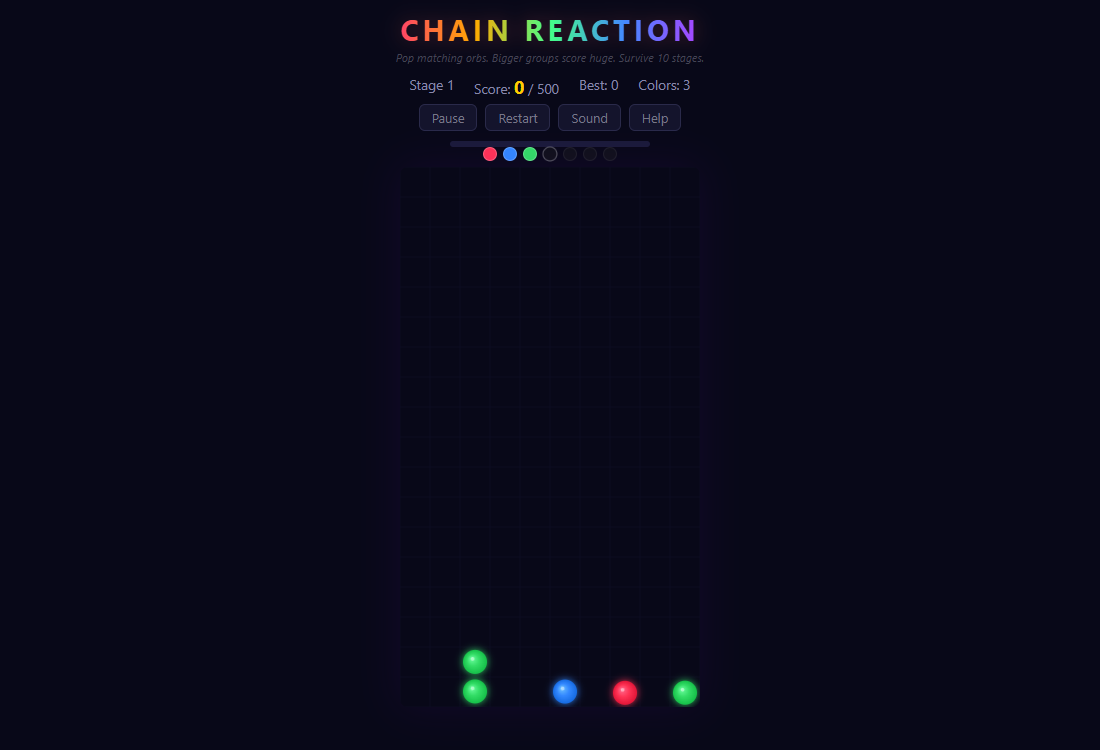
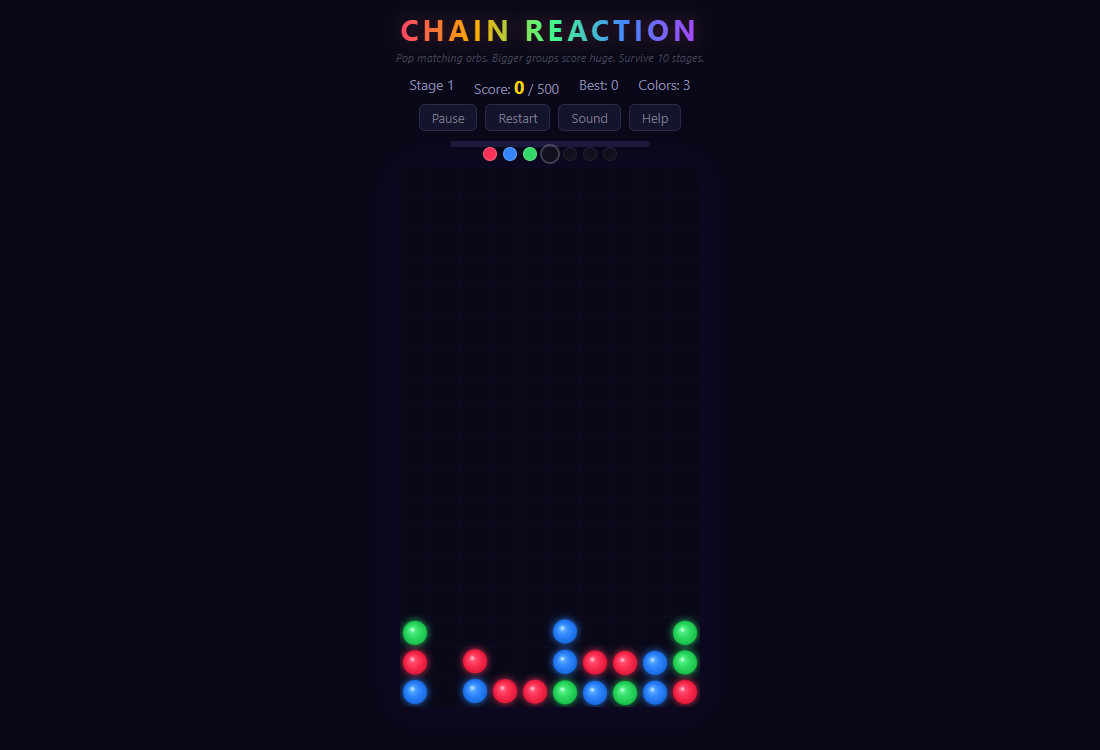
Launcher: gameplay thumbnails, taglines, GitHub footer

Changed region(s): [[0.34, 0.7973, 0.6491, 0.9507], [0.4945, 0.184, 0.5255, 0.2147]]

diff --git a/index.html b/index.html
@@ -13,7 +13,7 @@
       color: #e0e0ff;
       font-family: 'Share Tech Mono', monospace;
       min-height: 100vh;
-      padding: 32px 16px 64px;
+      padding: 32px 16px 48px;
       background-image:
         repeating-linear-gradient(
           0deg,
@@ -48,6 +48,16 @@
       text-shadow: 0 0 8px #c060ff;
       letter-spacing: 3px;
       text-transform: uppercase;
+      animation: blink 1.6s step-end infinite;
+    }
+
+    @keyframes blink {
+      0%, 100% { opacity: 1; }
+      50% { opacity: 0.25; }
+    }
+
+    @media (prefers-reduced-motion: reduce) {
+      header p { animation: none; }
     }
 
     .divider {
@@ -57,19 +67,30 @@
       margin: 20px auto 0;
     }
 
+    .featured-grid {
+      display: grid;
+      grid-template-columns: repeat(2, 1fr);
+      gap: 20px;
+      max-width: 860px;
+      margin: 0 auto;
+    }
+
+    @media (max-width: 640px) {
+      .featured-grid { grid-template-columns: 1fr; }
+    }
+
     .card {
-      background: #0e0e20;
-      border: 1px solid #3a2060;
-      border-radius: 4px;
-      padding: 18px 14px;
+      background: #12102a;
+      border: 1px solid #c060ff;
+      border-radius: 6px;
       text-decoration: none;
       color: inherit;
       display: flex;
       flex-direction: column;
-      gap: 10px;
       transition: all 0.15s;
       position: relative;
       overflow: hidden;
+      box-shadow: 0 0 12px rgba(192, 96, 255, 0.2), inset 0 0 30px rgba(192, 96, 255, 0.05);
     }
 
     .card::before {
@@ -78,70 +99,105 @@
       top: 0; left: 0; right: 0;
       height: 2px;
       background: linear-gradient(to right, #c060ff, #60c0ff);
-      opacity: 0;
-      transition: opacity 0.15s;
+      z-index: 1;
     }
 
     .card:hover {
-      background: #15152a;
-      border-color: #c060ff;
-      box-shadow: 0 0 16px rgba(192, 96, 255, 0.3), inset 0 0 20px rgba(192, 96, 255, 0.05);
-      transform: translateY(-2px);
+      border-color: #e0a0ff;
+      box-shadow: 0 0 24px rgba(192, 96, 255, 0.45), inset 0 0 30px rgba(192, 96, 255, 0.08);
+      transform: translateY(-3px);
     }
 
-    .card:hover::before {
-      opacity: 1;
+    .shot {
+      display: block;
+      width: 100%;
+      aspect-ratio: 16 / 10;
+      object-fit: cover;
+      object-position: center top;
+      border-bottom: 1px solid #3a2060;
+      background: #0a0a16;
+      filter: saturate(1.05);
+    }
+
+    .shot-bottom { object-position: center bottom; }
+
+    .card-body {
+      display: flex;
+      flex-direction: column;
+      gap: 8px;
+      padding: 16px 16px 14px;
+      flex: 1;
+    }
+
+    .card-top {
+      display: flex;
+      align-items: baseline;
+      justify-content: space-between;
+      gap: 10px;
     }
 
     .card-name {
-      font-family: 'Share Tech Mono', monospace;
-      font-size: 0.85rem;
-      color: #e0d0ff;
+      font-family: 'Press Start 2P', monospace;
+      font-size: 0.78rem;
+      color: #fff;
+      text-shadow: 0 0 10px #c060ff;
       line-height: 1.4;
-      text-shadow: 0 0 8px rgba(192, 96, 255, 0.4);
     }
 
-    .card:hover .card-name {
-      color: #fff;
-      text-shadow: 0 0 10px #c060ff;
+    .card-tag {
+      font-size: 0.78rem;
+      color: #9a8fc0;
+      line-height: 1.45;
+      flex: 1;
     }
 
-    .featured-grid {
-      display: grid;
-      grid-template-columns: repeat(auto-fill, minmax(150px, 1fr));
-      gap: 12px;
-      max-width: 760px;
-      margin: 0 auto 32px;
+    .card-foot {
+      display: flex;
+      align-items: center;
+      justify-content: space-between;
+      gap: 10px;
+      margin-top: 4px;
     }
 
-    .card.featured {
-      border-color: #c060ff;
-      background: #12102a;
-      box-shadow: 0 0 12px rgba(192, 96, 255, 0.2), inset 0 0 30px rgba(192, 96, 255, 0.05);
+    .play {
+      font-family: 'Press Start 2P', monospace;
+      font-size: 0.55rem;
+      color: #0a0a16;
+      background: #c060ff;
+      padding: 8px 12px;
+      border-radius: 3px;
+      letter-spacing: 1px;
+      box-shadow: 0 0 14px rgba(192, 96, 255, 0.5);
     }
 
-    .card.featured::before {
-      opacity: 1;
-    }
-
-    .card.featured .card-name {
-      color: #fff;
-      text-shadow: 0 0 10px #c060ff;
-    }
-
-    .card.featured:hover {
-      box-shadow: 0 0 24px rgba(192, 96, 255, 0.4), inset 0 0 30px rgba(192, 96, 255, 0.08);
+    .card:hover .play {
+      background: #e0a0ff;
+      box-shadow: 0 0 20px rgba(224, 160, 255, 0.7);
     }
 
     .card-date {
-      font-size: 0.6rem;
+      font-size: 0.65rem;
       color: #5a5080;
       letter-spacing: 0.5px;
-      margin-top: auto;
     }
 
-    @media (max-width: 380px) {
-      .featured-grid { grid-template-columns: 1fr 1fr; }
+    footer {
+      text-align: center;
+      margin-top: 44px;
+      font-size: 0.75rem;
+      color: #8060aa;
+      letter-spacing: 1px;
+    }
+
+    footer a {
+      color: #c060ff;
+      text-decoration: none;
+      border-bottom: 1px solid #4a2a66;
+    }
+
+    footer a:hover {
+      color: #e0a0ff;
+      text-shadow: 0 0 8px #c060ff;
     }
   </style>
 </head>
@@ -155,23 +211,64 @@
 
   <div class="featured-grid">
 
-    <a class="card featured" href="glowflow.html">
-      <div class="card-name">Glowflow</div>
+    <a class="card" href="glowflow.html">
+      <img class="shot" src="screenshots/glowflow.png" alt="Glowflow gameplay" loading="lazy">
+      <div class="card-body">
+        <div class="card-top">
+          <div class="card-name">Glowflow</div>
+        </div>
+        <div class="card-tag">Connect the dots. Every move plays music.</div>
+        <div class="card-foot">
+          <span class="play">PLAY &gt;</span>
+        </div>
+      </div>
     </a>
 
-    <a class="card featured" href="orbital-impact.html">
-      <div class="card-name">Orbital Impact</div>
+    <a class="card" href="orbital-impact.html">
+      <img class="shot" src="screenshots/orbital-impact.png" alt="Orbital Impact gameplay" loading="lazy">
+      <div class="card-body">
+        <div class="card-top">
+          <div class="card-name">Orbital Impact</div>
+        </div>
+        <div class="card-tag">Brick-breaker in orbit. Shatter every ring.</div>
+        <div class="card-foot">
+          <span class="play">PLAY &gt;</span>
+        </div>
+      </div>
     </a>
 
-    <a class="card featured" href="word-drops.html">
-      <div class="card-name">Word Drops</div>
+    <a class="card" href="word-drops.html">
+      <img class="shot shot-bottom" src="screenshots/word-drops.png" alt="Word Drops gameplay" loading="lazy">
+      <div class="card-body">
+        <div class="card-top">
+          <div class="card-name">Word Drops</div>
+        </div>
+        <div class="card-tag">Tetris, but you spell. Chains multiply.</div>
+        <div class="card-foot">
+          <span class="play">PLAY &gt;</span>
+        </div>
+      </div>
     </a>
 
-    <a class="card featured" href="chain-reaction.html">
-      <div class="card-name">Chain Reaction</div>
+    <a class="card" href="chain-reaction.html">
+      <img class="shot shot-bottom" src="screenshots/chain-reaction.png" alt="Chain Reaction gameplay" loading="lazy">
+      <div class="card-body">
+        <div class="card-top">
+          <div class="card-name">Chain Reaction</div>
+        </div>
+        <div class="card-tag">Pop connected orbs. Bigger groups, bigger booms.</div>
+        <div class="card-foot">
+          <span class="play">PLAY &gt;</span>
+        </div>
+      </div>
     </a>
 
   </div>
+
+  <footer>
+    Four games. One HTML file each. Zero dependencies.
+    <a href="https://github.com/caldwellcourtneyc/game-lab">Source on GitHub</a>
+  </footer>
 
   <script>
     // Fetch last-updated dates from GitHub API (per-file, parallel)
@@ -190,10 +287,10 @@
           if (!commit) return;
           const d = new Date(commit.commit.author.date);
           const label = d.toLocaleDateString('en-US', { month: 'short', day: 'numeric' });
-          const el = document.createElement('div');
+          const el = document.createElement('span');
           el.className = 'card-date';
-          el.textContent = label;
-          card.appendChild(el);
+          el.textContent = 'updated ' + label;
+          card.querySelector('.card-foot').appendChild(el);
         });
         await Promise.all(fetches);
       } catch (e) { /* silent fail — dates are nice-to-have */ }
